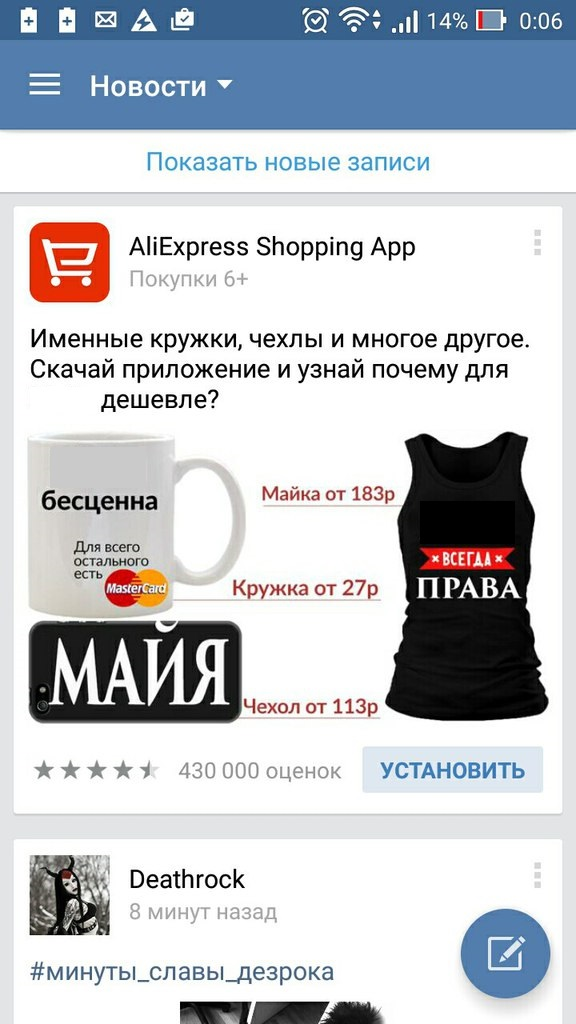
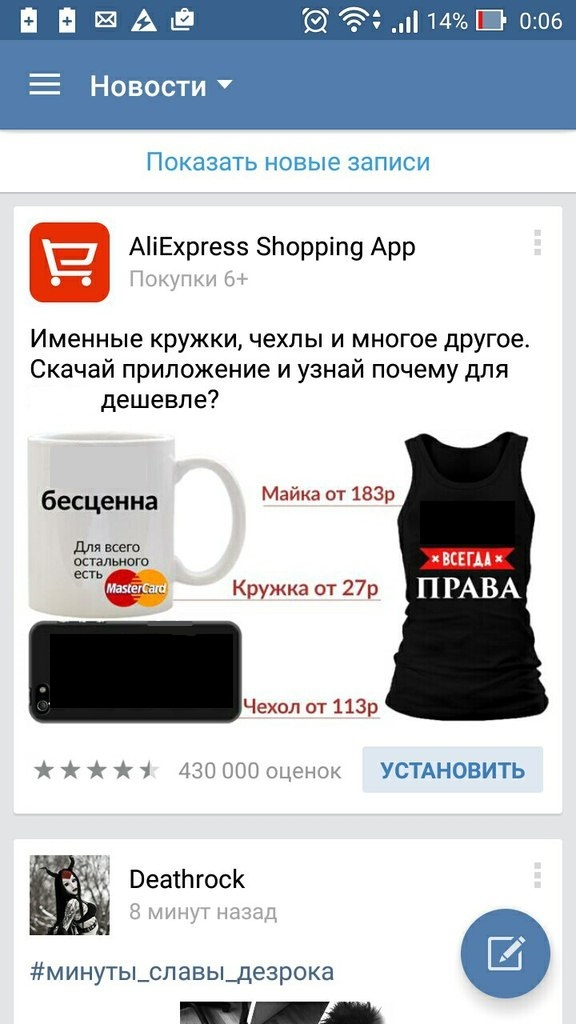
Больше "Вася"

Changed region(s): [[0.0938, 0.5938, 0.4062, 0.6875]]

diff --git a/main.py b/main.py
@@ -10,12 +10,14 @@ if __name__ == '__main__':
     NAME = 'Вася'
 
     font = ImageFont.truetype("arial.ttf", 26)
+    big_font = ImageFont.truetype("arial.ttf", 65)
 
     im = Image.open('aliexpress_ad.jpg')
 
     draw = ImageDraw.Draw(im)
-    draw.text((33, 384), NAME, font=font, fill="black")
-    draw.text((66, 455), NAME, font=font, fill="black")
-    draw.text((431, 504), NAME, font=font, fill="white")
+    draw.text((33, 384), NAME.title(), font=font, fill="black")
+    draw.text((66, 455), NAME.upper(), font=font, fill="black")
+    draw.text((431, 504), NAME.upper(), font=font, fill="white")
+    draw.text((52, 637), NAME.upper(), font=big_font, fill="white")
 
     im.save("runaway.jpg")
